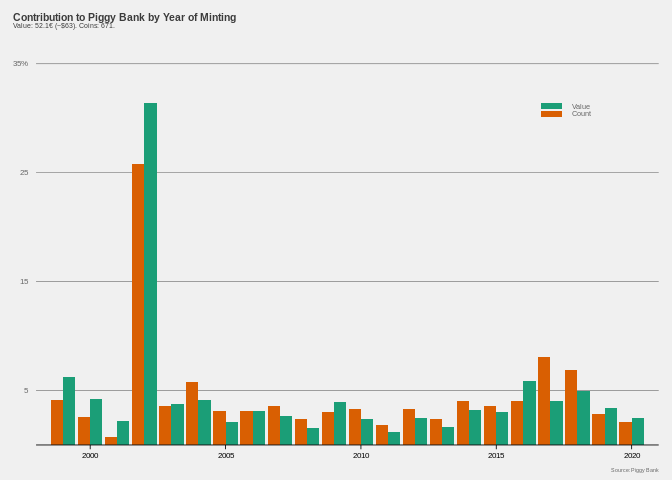
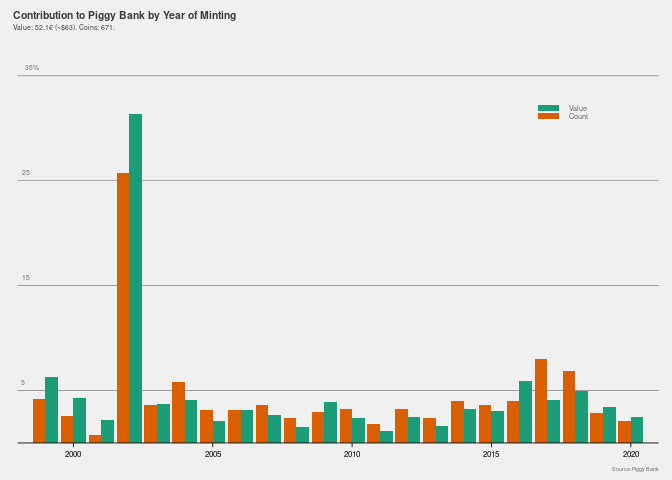
edited by year graph to have y-axis labels on the ticks

diff --git a/README.md b/README.md
@@ -108,79 +108,42 @@ kbl(analysis)
 ```
 
 <table>
-
 <thead>
-
 <tr>
-
 <th style="text-align:left;">
-
 Statistic
-
 </th>
-
 <th style="text-align:right;">
-
 Value
-
 </th>
-
 </tr>
-
 </thead>
-
 <tbody>
-
 <tr>
-
 <td style="text-align:left;">
-
 Total Monetary Value
-
 </td>
-
 <td style="text-align:right;">
-
 52.1000000
-
 </td>
-
 </tr>
-
 <tr>
-
 <td style="text-align:left;">
-
 Coins
-
 </td>
-
 <td style="text-align:right;">
-
 671.0000000
-
 </td>
-
 </tr>
-
 <tr>
-
 <td style="text-align:left;">
-
 Average Value
-
 </td>
-
 <td style="text-align:right;">
-
 0.0776453
-
 </td>
-
 </tr>
-
 </tbody>
-
 </table>
 
 # Individual Graphs:
@@ -241,7 +204,7 @@ year <- d %>%
                values_to="value") %>% 
 ggplot(aes(x=Year,y=value, fill=variable)) +
   geom_bar(stat='identity', position='dodge') +
-  scale_y_continuous(limits = c(0, 36), 
+  scale_y_continuous(limits = c(0, 37), 
                      breaks = c(seq(5,35,10)), 
                      expand = c(0, 0),
                      labels=c("5"="5","15"="15",
@@ -424,6 +387,7 @@ ggsave("./pics/by_coin.jpg",width=4, height=3)
 ## by year
 
 ``` r
+library(ggannotate)
 year +
   labs(title = "Contribution to Piggy Bank by Year of Minting",
        subtitle = "Value: 52.1€ (~$63). Coins: 671.",
@@ -431,10 +395,28 @@ year +
   theme(legend.text=element_text(size=5.5),
         legend.margin=margin(t = 0, unit='cm'),
         legend.position = c(0.85, 0.865),
-        plot.caption=element_text(size=4))
+        plot.caption=element_text(size=4),
+        axis.text.y=element_blank()) +
+  geom_text(data = data.frame(x = 1998.2, y = 5.8, 
+    label = "5"), mapping = aes(x = x, y = y, label = label), 
+    inherit.aes = FALSE, size=1.8, color="#656565") +
+   geom_text(data = data.frame(x = 1998.3, y = 15.8, 
+    label = "15"), mapping = aes(x = x, y = y, label = label), 
+    inherit.aes = FALSE, size=1.8, color="#656565") +
+ geom_text(data = data.frame(x = 1998.3, y = 25.8, 
+    label = "25"), mapping = aes(x = x, y = y, label = label), 
+    inherit.aes = FALSE, size=1.8, color="#656565") +
+  geom_text(data = data.frame(x = 1998.5, y = 35.8, 
+    label = "35%"), mapping = aes(x = x, y = y, label = label), 
+    inherit.aes = FALSE, size=1.8, color="#656565") 
 ```
 
 ![](README_figs/year-1.png)<!-- -->
+
+``` r
+#ggannotate(p)
+#ggThemeAssist::ggThemeAssistGadget(p)
+```
 
 ``` r
 ggsave("./pics/by_year.jpg",width=4, height=3)
